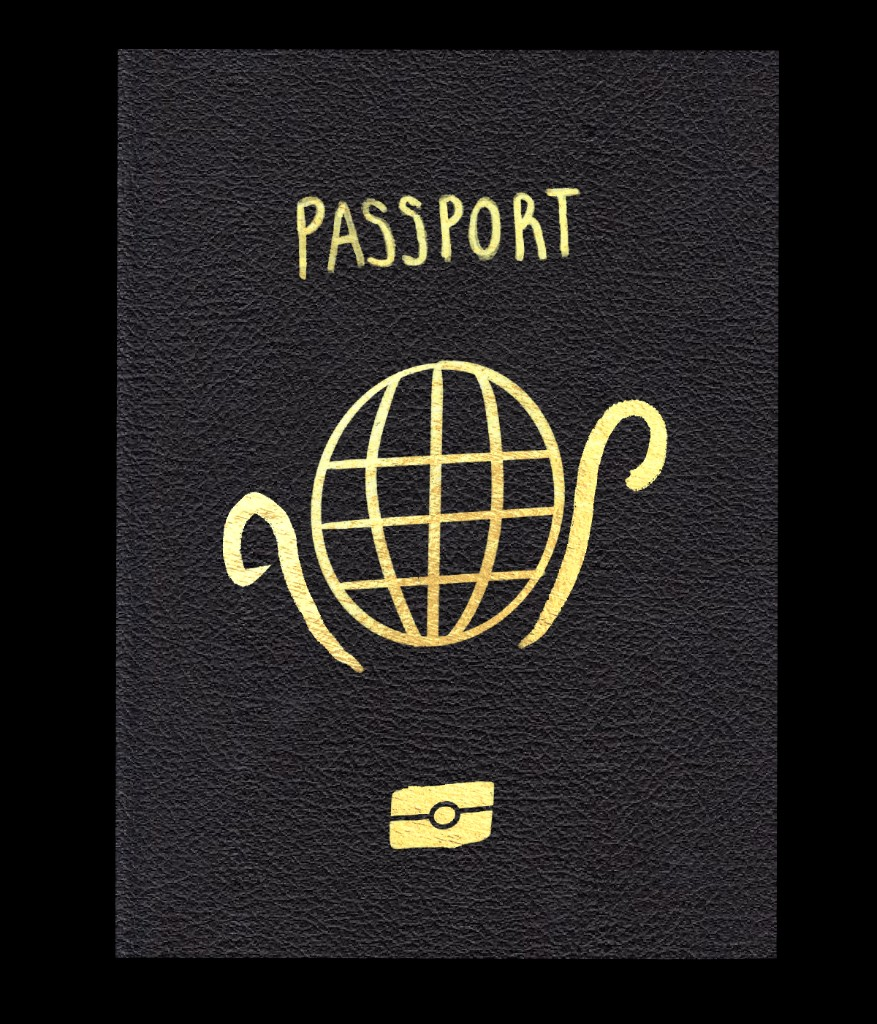
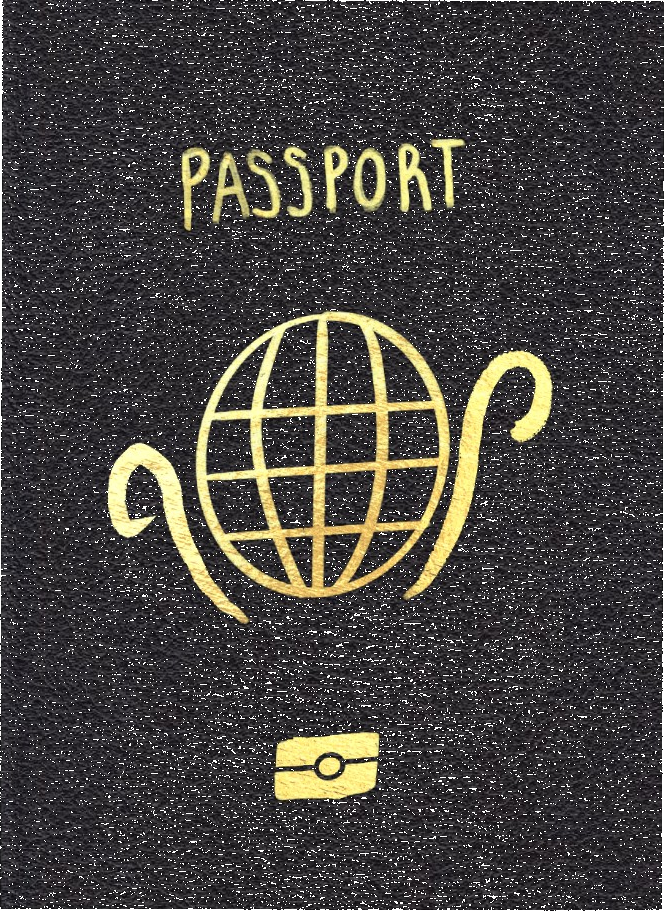
Fix passport cover black letterbox by cropping images to transparent PNGs.
JPEG covers had baked-in black/white padding; crop to art bounds, normalize both covers to 664×911, and center the stage with correct aspect ratio.

diff --git a/public/passport.html b/public/passport.html
@@ -51,8 +51,8 @@
     .pp-nav button.act{color:var(--burg)}
     .pp-pageno{position:absolute;top:14px;right:16px;font-family:var(--font-mono);font-size:9px;letter-spacing:2px;color:var(--muted);z-index:2}
     #s-cover{background:#ECE7DB}
-    .gt-cover-stage{position:relative;width:min(75vw,340px);aspect-ratio:240/280;perspective:1700px;margin:0 auto}
-    .gt-cover{position:absolute;inset:0;transform-origin:left center;transition:transform 1.15s cubic-bezier(.6,.02,.2,1);cursor:pointer;z-index:3;backface-visibility:hidden;background:transparent;border:none;box-shadow:none;overflow:visible}
+    .gt-cover-stage{position:relative;width:min(75vw,340px);aspect-ratio:664/911;perspective:1700px;margin:0 auto;display:flex;align-items:center;justify-content:center}
+    .gt-cover{position:relative;width:100%;height:100%;transform-origin:left center;transition:transform 1.15s cubic-bezier(.6,.02,.2,1);cursor:pointer;z-index:3;backface-visibility:hidden;background:transparent;border:none;box-shadow:none;overflow:visible;display:flex;align-items:center;justify-content:center}
     .gt-cover img{width:100%;height:100%;object-fit:contain;display:block;background:transparent;filter:drop-shadow(0 12px 28px rgba(44,44,42,.2))}
     .gt-cover img#gt-cover-img{transition:opacity .35s ease}
     .gt-cover img#gt-cover-img.fade{opacity:0}
@@ -87,11 +87,11 @@
       <div class="pp-sub" style="margin-bottom:16px;" id="gt-cover-hint">tap your passport to open</div>
       <div class="gt-cover-stage">
         <div class="gt-cover" id="gt-cover" onclick="gtOpenCover()">
-          <img id="gt-cover-img" src="/passport-cover-black.png" alt="Gym Passport cover" width="340" height="397" />
+          <img id="gt-cover-img" src="/passport-cover-pink.png" alt="Gym Passport cover" width="664" height="911" />
         </div>
       </div>
     </div>
-    <button type="button" class="pp-cover-toggle" id="gt-cover-toggle" onclick="gtToggleCover()"><i class="ti ti-palette" style="font-size:14px;" aria-hidden="true"></i><span id="gt-cover-toggle-label">Switch to pink cover</span></button>
+    <button type="button" class="pp-cover-toggle" id="gt-cover-toggle" onclick="gtToggleCover()"><i class="ti ti-palette" style="font-size:14px;" aria-hidden="true"></i><span id="gt-cover-toggle-label">Switch to black cover</span></button>
   </div>
 
   <div class="gt-screen" id="s-name" style="padding:24px;justify-content:center;"><div class="pp-pageno">PAGE 01</div>
@@ -204,7 +204,7 @@
   var CHECKIN_KEY='gymtap-checkins';
   var COVER_KEY='gymtap-passport-cover';
   var COVER_SRC={pink:'/passport-cover-pink.png',black:'/passport-cover-black.png'};
-  var coverColor='black';
+  var coverColor='pink';
   var state={name:'',gym:'',passportNo:'',days:new Set(),streak:0,doneToday:false,lifts:[],photoSrc:null},count=0,day=25;
   var nfcAbort=null,nfcReader=null;
   var DAYF=['MON','TUE','WED','THU','FRI','SAT','SUN'];

diff --git a/passport.html b/passport.html
@@ -51,8 +51,8 @@
     .pp-nav button.act{color:var(--burg)}
     .pp-pageno{position:absolute;top:14px;right:16px;font-family:var(--font-mono);font-size:9px;letter-spacing:2px;color:var(--muted);z-index:2}
     #s-cover{background:#ECE7DB}
-    .gt-cover-stage{position:relative;width:min(75vw,340px);aspect-ratio:240/280;perspective:1700px;margin:0 auto}
-    .gt-cover{position:absolute;inset:0;transform-origin:left center;transition:transform 1.15s cubic-bezier(.6,.02,.2,1);cursor:pointer;z-index:3;backface-visibility:hidden;background:transparent;border:none;box-shadow:none;overflow:visible}
+    .gt-cover-stage{position:relative;width:min(75vw,340px);aspect-ratio:664/911;perspective:1700px;margin:0 auto;display:flex;align-items:center;justify-content:center}
+    .gt-cover{position:relative;width:100%;height:100%;transform-origin:left center;transition:transform 1.15s cubic-bezier(.6,.02,.2,1);cursor:pointer;z-index:3;backface-visibility:hidden;background:transparent;border:none;box-shadow:none;overflow:visible;display:flex;align-items:center;justify-content:center}
     .gt-cover img{width:100%;height:100%;object-fit:contain;display:block;background:transparent;filter:drop-shadow(0 12px 28px rgba(44,44,42,.2))}
     .gt-cover img#gt-cover-img{transition:opacity .35s ease}
     .gt-cover img#gt-cover-img.fade{opacity:0}
@@ -87,7 +87,7 @@
       <div class="pp-sub" style="margin-bottom:16px;" id="gt-cover-hint">tap your passport to open</div>
       <div class="gt-cover-stage">
         <div class="gt-cover" id="gt-cover" onclick="gtOpenCover()">
-          <img id="gt-cover-img" src="/passport-cover-pink.png" alt="Gym Passport cover" width="340" height="397" />
+          <img id="gt-cover-img" src="/passport-cover-pink.png" alt="Gym Passport cover" width="664" height="911" />
         </div>
       </div>
     </div>